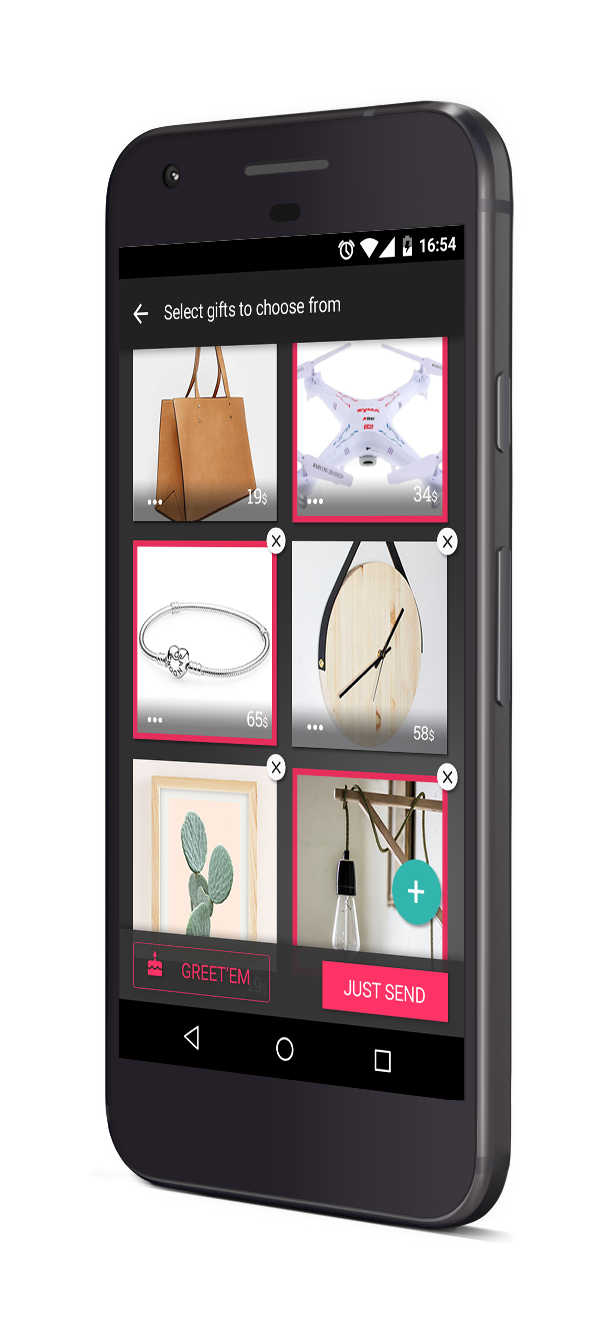
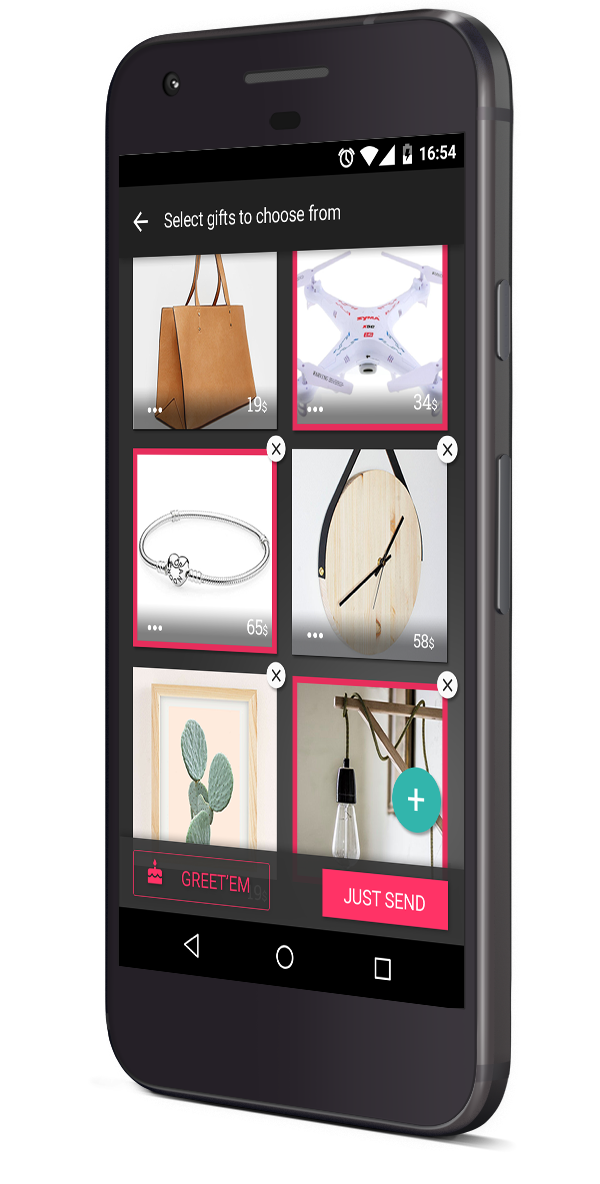
Sticky bar

diff --git a/css/style.css b/css/style.css
@@ -68,7 +68,9 @@ h6 {
 	height: 100vh;
 	display: flex;
 	flex-direction: column;
-	padding: 3em 2em 1em;
+	padding: 3em 0em 1em;
+	margin: auto;
+	max-width: 960px;
 	/*border:1px solid red;*/
 }
 
@@ -83,10 +85,11 @@ h6 {
 }
 
 .page-content {
+	margin: 2em 0;
 	display: flex;
 	flex-direction: row;
 	justify-content: space-between;
-	flex-wrap: wrap;
+	flex-wrap: wrap-reverse;
 }
 
 .left-container {
@@ -95,14 +98,28 @@ h6 {
 	height: 100%;
 }
 
+.main-img-container {
+	width: 25%;
+	min-height: 300px;
+}
+
 .main-img {
-	background-image: url('../assets/gg_large.png');
     background-size: contain;
     background-repeat: no-repeat;
-    width: 25%;
-    height: 0;
-    padding-top: 66.64%; /* (img-height / img-width * container-width) */
+    width: 100%;
+    height: 100%;
+    /*padding-top: 66.64%;  (img-height / img-width * container-width) */
                 /* (853 / 1280 * 100) */
+}
+
+#main-img-1 {
+	background-image: url('../assets/gg_large.png');
+}
+
+.video-container {
+	display: inline-block;
+	margin: 2em auto;
+
 }
 
 .title-holder {
@@ -148,6 +165,7 @@ h6 {
 	color: white;
 	justify-content: space-around;
 	box-shadow: 0 3px 6px rgba(0,0,0,0.16), 0 3px 6px rgba(0,0,0,0.23);
+	z-index: 99;
 }
 
 .flying-inner {
@@ -170,18 +188,19 @@ h6 {
 }
 
 .content {
+	margin: 1em 0;
 	display: flex;
-	justify-content: space-between;
 	height: auto;
 }
 
 .content p {
-	min-width: 300px;
+	margin: 0;
+	max-width: 500px;
 }
 
 .small-img-container {
 	/*height: 300px;*/
-	width: 100%;
+	/*width: 100%;*/
 	min-height: 300px;
 	margin-right: 1em;
 	/*min-width: 250px;*/
@@ -201,14 +220,58 @@ h6 {
 	background-image: url('../assets/gg_small_1.png');
 }
 
+.google-play{
+	display: inline-block;
+	margin: auto;
+	height: 54px;
+	width: auto;
+}
+
+/*=========================*/
+/*========sticky bar=======*/
+/*=========================*/
+
+.sticky {
+  position: -webkit-sticky;
+  position: -moz-sticky;
+  position: -o-sticky;
+  position: -ms-sticky;
+  position: sticky;
+  top: 0;
+  left: 0;
+  right: 0;
+  display: block;
+  background-color: rgba(255,255,255,0.8)
+}
+
+
 /*==============*/
 /*=== Mobile ===*/
 /*==============*/
 
 @media only screen and (max-device-width: 480px)  {
     body {
-        font-size: 28px;
+        font-size: 38px;
     }
+
+    .page, .long-page{
+    	margin-left: 0.5em;
+    	margin-left: 0.5em;
+    	margin: 0;
+    }
+
+    .main-img-container {
+		width: 100%;
+		min-height: 1000px;
+	}
+	.left-container {
+		width: 100%;
+	}
+
+	.small-img-container {
+		width: 100%;
+	}
+
 }
 
 

diff --git a/index.html b/index.html
@@ -35,17 +35,20 @@
 	<div class="page" id="page-1">
 		<div class="title-holder">
 		  <h1>Hi,</h1>
-		  <h2>I'm Dor</h2>
+		  <h1>I'm Dor</h1>
 		  <h3>And here are some of</h3>
 		  <a href="#page-2" class="flat-btn">my works</a>
 		</div>
 	</div>
 
 	<div class="long-page" id="page-2">
-		<div class="page-title">
+		<div class="page-title sticky">
 			<h4>Givin Guru</h4>
 			<h5>Gifting application</h5>
 			<h6>Android<h6>
+			<span class="title-google">
+				<a href='https://play.google.com/store/apps/details?id=com.givinguru&pcampaignid=MKT-Other-global-all-co-prtnr-py-PartBadge-Mar2515-1'><img class="google-play" alt='Get it on Google Play' src='https://play.google.com/intl/en_us/badges/images/generic/en_badge_web_generic.png'/></a>
+			</span>
 		</div>
 		<div class="roles">
 				<ul class="roles-list">
@@ -65,20 +68,28 @@
 					</p>
 				</div>
 				<div class="content">
+					<div class="small-img-container">
+						<div class="small-img" id="small-1"></div>
+					</div>
 					<p>
 					Lorem ipsum dolor sit amet, consectetur adipiscing elit. Donec ornare sollicitudin turpis, vel vulputate massa volutpat at. Praesent nisi metus, placerat et ultrices vel, suscipit ut risus. Suspendisse dignissim elit at eros rutrum, eu tempor nunc hendrerit. Donec volutpat vulputate arcu non aliquet. In hac habitasse platea dictumst.
 					</p>
 				</div>
+				<div class="content">
+					<div class="video-container">
+						<iframe width="640" height="360" src="https://www.youtube.com/embed/MSRdXS4BmM8?rel=0" frameborder="0" allowfullscreen></iframe>
+					</div>
+				</div>
 			</div>
 
-			<div class= "main-img">
+			<div class="main-img-container">
+				<div class="main-img" id="main-img-1"></div>
 			</div>
-
 		</div>
 	</div>
 
 	<div class="long-page" id="page-3">
-		<div class="page-title">
+		<div class="page-title sticky">
 			<h4>PlayDog</h4>
 			<h5>Interactive game for smart dogs</h5>
 			<h6>Web mobile<h6>
@@ -87,6 +98,7 @@
 			<div class='left'>
 				<div>
 					<p>left content</p>
+					<br><br><br><br><br><br><br><br><br><br><br><br><br><br><br><br><br><br><br><br><br><br><br><br>
 				</div>
 			</div>
 			<div class="right">

diff --git a/js/scripts.js b/js/scripts.js
@@ -16,3 +16,4 @@ $(document).ready(function(){
     } 
   });
 });
+
